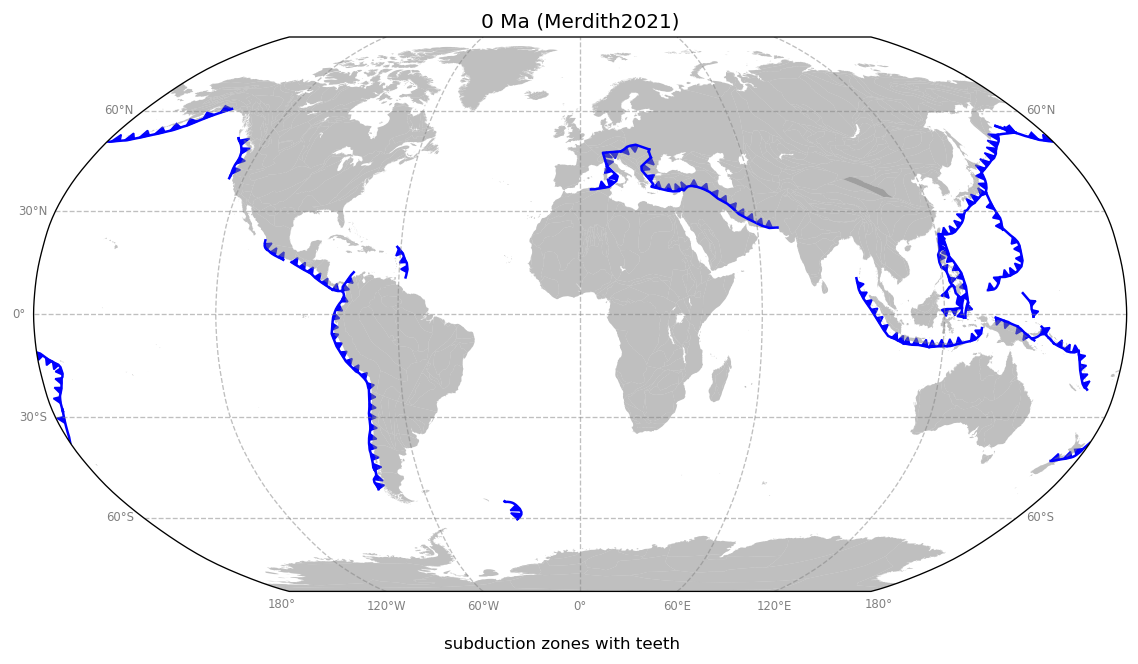
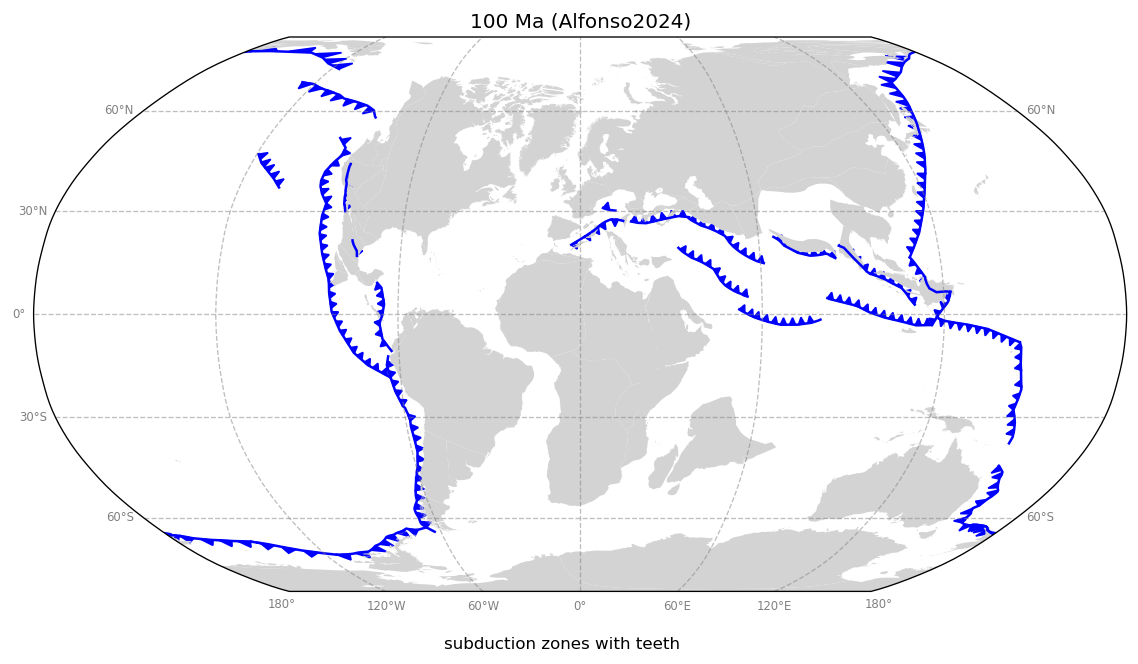
update examples

diff --git a/examples/plot_topological_plate_boundaries.py b/examples/plot_topological_plate_boundaries.py
@@ -7,7 +7,7 @@ import matplotlib.pyplot as plt
 import numpy as np
 from shapely.geometry import MultiLineString, MultiPolygon, Polygon, shape
 
-from gwspy import PlateModel
+from gwspy import PlateModel, coastlines
 
 OUTPUT_DIR = "output"
 Path(OUTPUT_DIR).mkdir(parents=True, exist_ok=True)
@@ -16,32 +16,46 @@ Path(OUTPUT_DIR).mkdir(parents=True, exist_ok=True)
 # export GWS_URL=http://localhost:18000/
 # micromamba run -n gplates-ws-example ./plot_topological_plate_boundaries.py
 
+model_name = "Alfonso2024"
+
 
 def main(show=True):
-    model = PlateModel("Muller2019")
-    time = 10
-    topology_10 = model.get_topology(time)
+    model = PlateModel(model_name)
+    time = 100
+    topology_100 = model.get_topology(time)
 
-    _lines = topology_10.get_plate_boundaries()
+    _lines = topology_100.get_plate_boundaries()
     colors = []
     feature_types = []
     polylines = []
-    color_map = {}
+    color_map = {
+        "MidOceanRidge": "red",
+        "Transform": "red",
+        "SubductionZone": "blue",
+        "Fault": "orange",
+    }
     for feature in _lines["features"]:
         s = shape(feature["geometry"])
         polylines.append(s)
         f_type = feature["properties"]["type"]
-        feature_types.append(f_type)
+
         if f_type not in color_map:
-            cc = list(np.random.choice(range(256), size=3) / 256)
-            color_map[f_type] = cc
+            cc = "grey"
+            feature_types.append("other")
+            # cc = list(np.random.choice(range(256), size=3) / 256)
+            # color_map[f_type] = cc
         else:
+            feature_types.append(f_type)
             cc = color_map[f_type]
         colors.append(cc)
         # if f_type == "gpml:TopologicalNetwork":
         #    colors.append("green")
 
     print(set(feature_types))
+
+    coastlines_shapely = coastlines.get_paleo_coastlines(
+        time=time, model=model_name, format="shapely"
+    )
 
     fig = plt.figure(figsize=(12, 6), dpi=120)
     ax = plt.axes(projection=ccrs.Robinson())
@@ -50,7 +64,7 @@ def main(show=True):
     gl = ax.gridlines(
         crs=ccrs.PlateCarree(),
         draw_labels=True,
-        color="grey",
+        color="black",
         alpha=0.5,
         linestyle="--",
     )
@@ -59,17 +73,26 @@ def main(show=True):
     gl.xlabel_style = {"size": 7, "color": "gray"}
     gl.ylabel_style = {"size": 7, "color": "gray"}
 
+    ax.add_geometries(
+        coastlines_shapely,
+        crs=ccrs.PlateCarree(),
+        facecolor="lightgrey",
+        edgecolor="none",
+        alpha=0.5,
+    )
+
     # plot the lines
     for line, c, t in zip(polylines, colors, feature_types):
         if isinstance(line, MultiLineString):
             for g in line.geoms:
                 ax.plot(
-                    *g.xy, transform=ccrs.PlateCarree(), color=c, label=t, linewidth=0.7
+                    *g.xy, transform=ccrs.PlateCarree(), color=c, label=t, linewidth=1
                 )
         else:
             ax.plot(
-                *line.xy, transform=ccrs.PlateCarree(), color=c, label=t, linewidth=0.7
+                *line.xy, transform=ccrs.PlateCarree(), color=c, label=t, linewidth=1
             )
+
     # plot the legend
     handles, labels = ax.get_legend_handles_labels()
     unique = [
@@ -80,16 +103,16 @@ def main(show=True):
         title="Feature Types",
         prop={"size": 6},
         loc="lower right",
-        bbox_to_anchor=(1.14, 0.6),
+        bbox_to_anchor=(1.08, 0.8),
     )
     plt.setp(legend.get_title(), fontsize="xx-small")
 
-    plt.title(f"{time} Ma (Muller2019)")
+    plt.title(f"{time} Ma ({model_name})")
 
     fig.text(
         0.5,
         0.03,
-        "topological plate boundaries with random colours for each feature type",
+        "the topological plate boundaries are plotted as line segments",
         ha="center",
     )
 

diff --git a/examples/plot_topological_plate_polygons.py b/examples/plot_topological_plate_polygons.py
@@ -15,25 +15,31 @@ Path(OUTPUT_DIR).mkdir(parents=True, exist_ok=True)
 # export GWS_URL=http://localhost:18000/
 # micromamba run -n gplates-ws-example ./plot_topological_plate_polygons.py
 
+model_name = "Alfonso2024"
+
 
 def main(show=True):
-    model = PlateModel("Muller2019")
-    time = 10
-    topology_10 = model.get_topology(time)
+    model = PlateModel(model_name)
+    time = 100
+    topology_100 = model.get_topology(time)
 
     # LOOK HERE!!!!
     # plot polygon without edges first
     # and then get the polygon edges as lines and  plot the edges
     # this is to get rid of the vertical line along the dateline
-    _polygons = topology_10.get_plate_polygons()
-    _lines = topology_10.get_plate_polygons(as_lines=True)
+    _polygons = topology_100.get_plate_polygons()
+    _lines = topology_100.get_plate_polygons(as_lines=True)
 
     # print(_polygons)
 
     polygons = []
     for feature in _polygons["features"]:
-        # if feature["properties"]["type"] != "gpml:TopologicalClosedPlateBoundary":
+        # if "Africa Basins temporary rigid block" in feature["properties"]["name"]:
+        #    print(feature["properties"]["name"])
         #    continue
+        # print(feature["properties"]["name"])
+        if feature["properties"]["type"] == "gpml:OceanicCrust":
+            continue
         s = shape(feature["geometry"])
         if isinstance(s, Polygon) or isinstance(s, MultiPolygon):
             polygons.append(s.buffer(0))
@@ -43,16 +49,18 @@ def main(show=True):
     feature_types = []
     for feature in _lines["features"]:
         s = shape(feature["geometry"])
-        lines.append(s)
         f_type = feature["properties"]["type"]
+        if f_type == "gpml:OceanicCrust":
+            continue
+
+        lines.append(s)
+
         if f_type == "gpml:TopologicalNetwork":
             colors.append("green")
         elif f_type == "gpml:TopologicalClosedPlateBoundary":
             colors.append("blue")
         elif f_type == "gpml:TopologicalSlabBoundary":
             colors.append("yellow")
-        elif f_type == "gpml:OceanicCrust":
-            colors.append("orange")
         else:
             colors.append("red")
 
@@ -110,7 +118,7 @@ def main(show=True):
         bbox_to_anchor=(1.1, 0.9),
     )
     plt.setp(legend.get_title(), fontsize="xx-small")
-    plt.title(f"{time} Ma (Muller2019)")
+    plt.title(f"{time} Ma ({model_name})")
 
     fig.text(
         0.5,

diff --git a/examples/plot_subduction_zones.py b/examples/plot_subduction_zones.py
@@ -40,8 +40,8 @@ def plot_teeth(ax, lons, lats, polarity):
 
 
 def main(show=True):
-    time = 0
-    model_name = "Merdith2021"
+    time = 100
+    model_name = "Alfonso2024"
 
     fig, ax = get_basemap_with_coastlines(model=model_name, time=time)
 
@@ -71,7 +71,7 @@ def main(show=True):
                 ax.plot(lons, lats, transform=ccrs.PlateCarree(), color="blue")
                 plot_teeth(ax, lons, lats, polarity)
 
-    plt.title(f"{time} Ma (Merdith2021)")
+    plt.title(f"{time} Ma ({model_name})")
 
     fig.text(
         0.5,
@@ -86,7 +86,7 @@ def main(show=True):
         save_fig(__file__)
 
 
-def get_basemap_with_coastlines(model="Muller2019", crs=ccrs.Robinson(), time=140):
+def get_basemap_with_coastlines(model, crs=ccrs.Robinson(), time=140):
     coastlines_shapely = coastlines.get_paleo_coastlines(
         time=time, model=model, format="shapely"
     )
@@ -110,9 +110,9 @@ def get_basemap_with_coastlines(model="Muller2019", crs=ccrs.Robinson(), time=14
     ax.add_geometries(
         coastlines_shapely,
         crs=ccrs.PlateCarree(),
-        facecolor="grey",
+        facecolor="lightgrey",
         edgecolor="none",
-        alpha=0.5,
+        alpha=1,
     )
     return fig, ax
 
